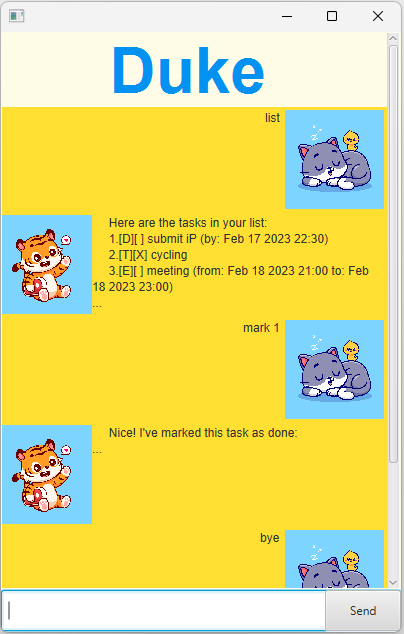
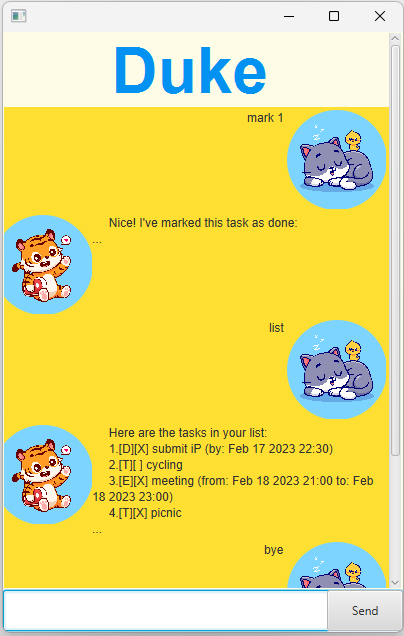
Parser class: Fix parsing bug of todo

Changed region(s): [[0.0, 0.0, 1.0, 1.0], [0.2673, 0.0599, 0.6535, 0.1498], [0.9208, 0.0, 0.9505, 0.03]]

diff --git a/src/main/java/duke/gui/DialogBox.java b/src/main/java/duke/gui/DialogBox.java
@@ -13,6 +13,7 @@ import javafx.scene.control.Label;
 import javafx.scene.image.Image;
 import javafx.scene.image.ImageView;
 import javafx.scene.layout.HBox;
+import javafx.scene.shape.Circle;
 
 /**
  * An example of a custom control using FXML.
@@ -37,6 +38,8 @@ public class DialogBox extends HBox {
 
         dialog.setText(text);
         dialog.setWrapText(true);
+        Circle clip = new Circle(50,50, 50);
+        displayPicture.setClip(clip);
         displayPicture.setImage(img);
     }
 

diff --git a/src/main/java/duke/parser/Parser.java b/src/main/java/duke/parser/Parser.java
@@ -42,7 +42,7 @@ public class Parser {
     }
 
     private Command parseTodoCommand(String userInput) {
-        String[] tokens = userInput.split(" ");
+        String[] tokens = userInput.split(" ", 2);
         if (tokens.length <= 1 || tokens[1].isEmpty()) {
             throw new DukeException("The description of a todo cannot be empty.");
         }
